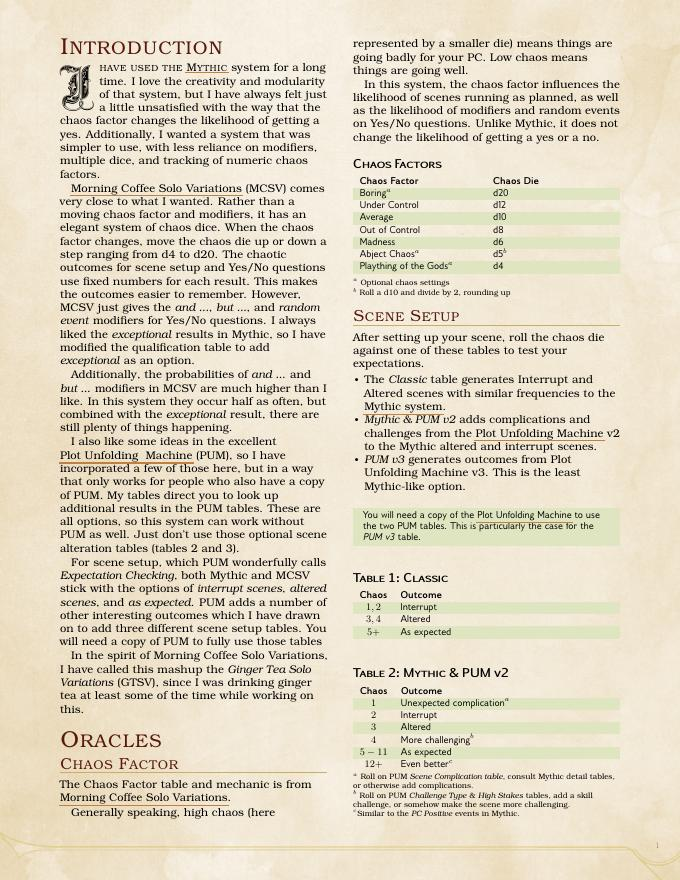
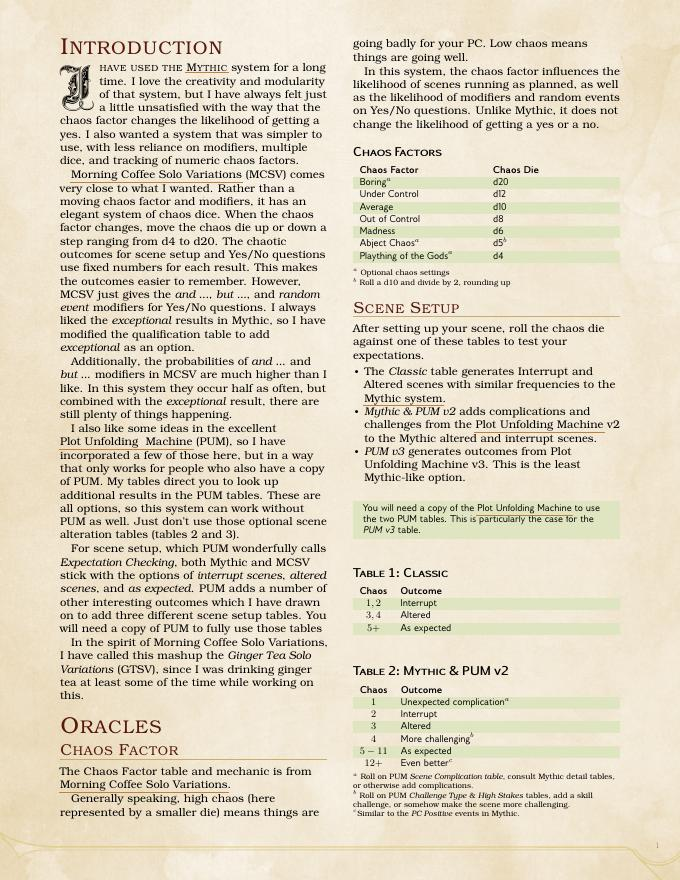
version 2.1.1

Changed region(s): [[0.0926, 0.0307, 0.9265, 0.9511], [0.525, 0.6443, 0.7412, 0.8898]]

diff --git a/gtsv.tex b/gtsv.tex
@@ -5,7 +5,7 @@
 \Huge{Ginger Tea Solo Variations}
 \\ \small{A \emph{Mythic}, \emph{Morning Coffee Solo Variations}, \& \emph{Plot Unfolding Machine} Mashup}
 }
-\date{September 2022\newline{}Version 2.1.0}
+\date{September 2022\newline{}Version 2.1.1}
 \author{Daniel}
 
 %----------------------------------------------------------------------------------
@@ -30,7 +30,7 @@
 \href{https://www.wordmillgames.com/mythic-gme.html}{Mythic}}
 system for a long time. I love the creativity and modularity of that system,
 but I have always felt just a little unsatisfied with the way that the chaos
-factor changes the likelihood of getting a yes. Additionally, I wanted a system
+factor changes the likelihood of getting a yes. I also wanted a system
 that was simpler to use, with less reliance on modifiers, multiple dice, and
 tracking of numeric chaos factors.
 

diff --git a/gtsv_essential_tables.tex b/gtsv_essential_tables.tex
@@ -2,7 +2,7 @@
 
 % Metadata
 \title{Ginger Tea Solo Variations: Essential Tables}
-\date{September 2022\newline{}Version 2.1.0}
+\date{September 2022\newline{}Version 2.1.1}
 \author{Daniel}
 
 \begin{document}
